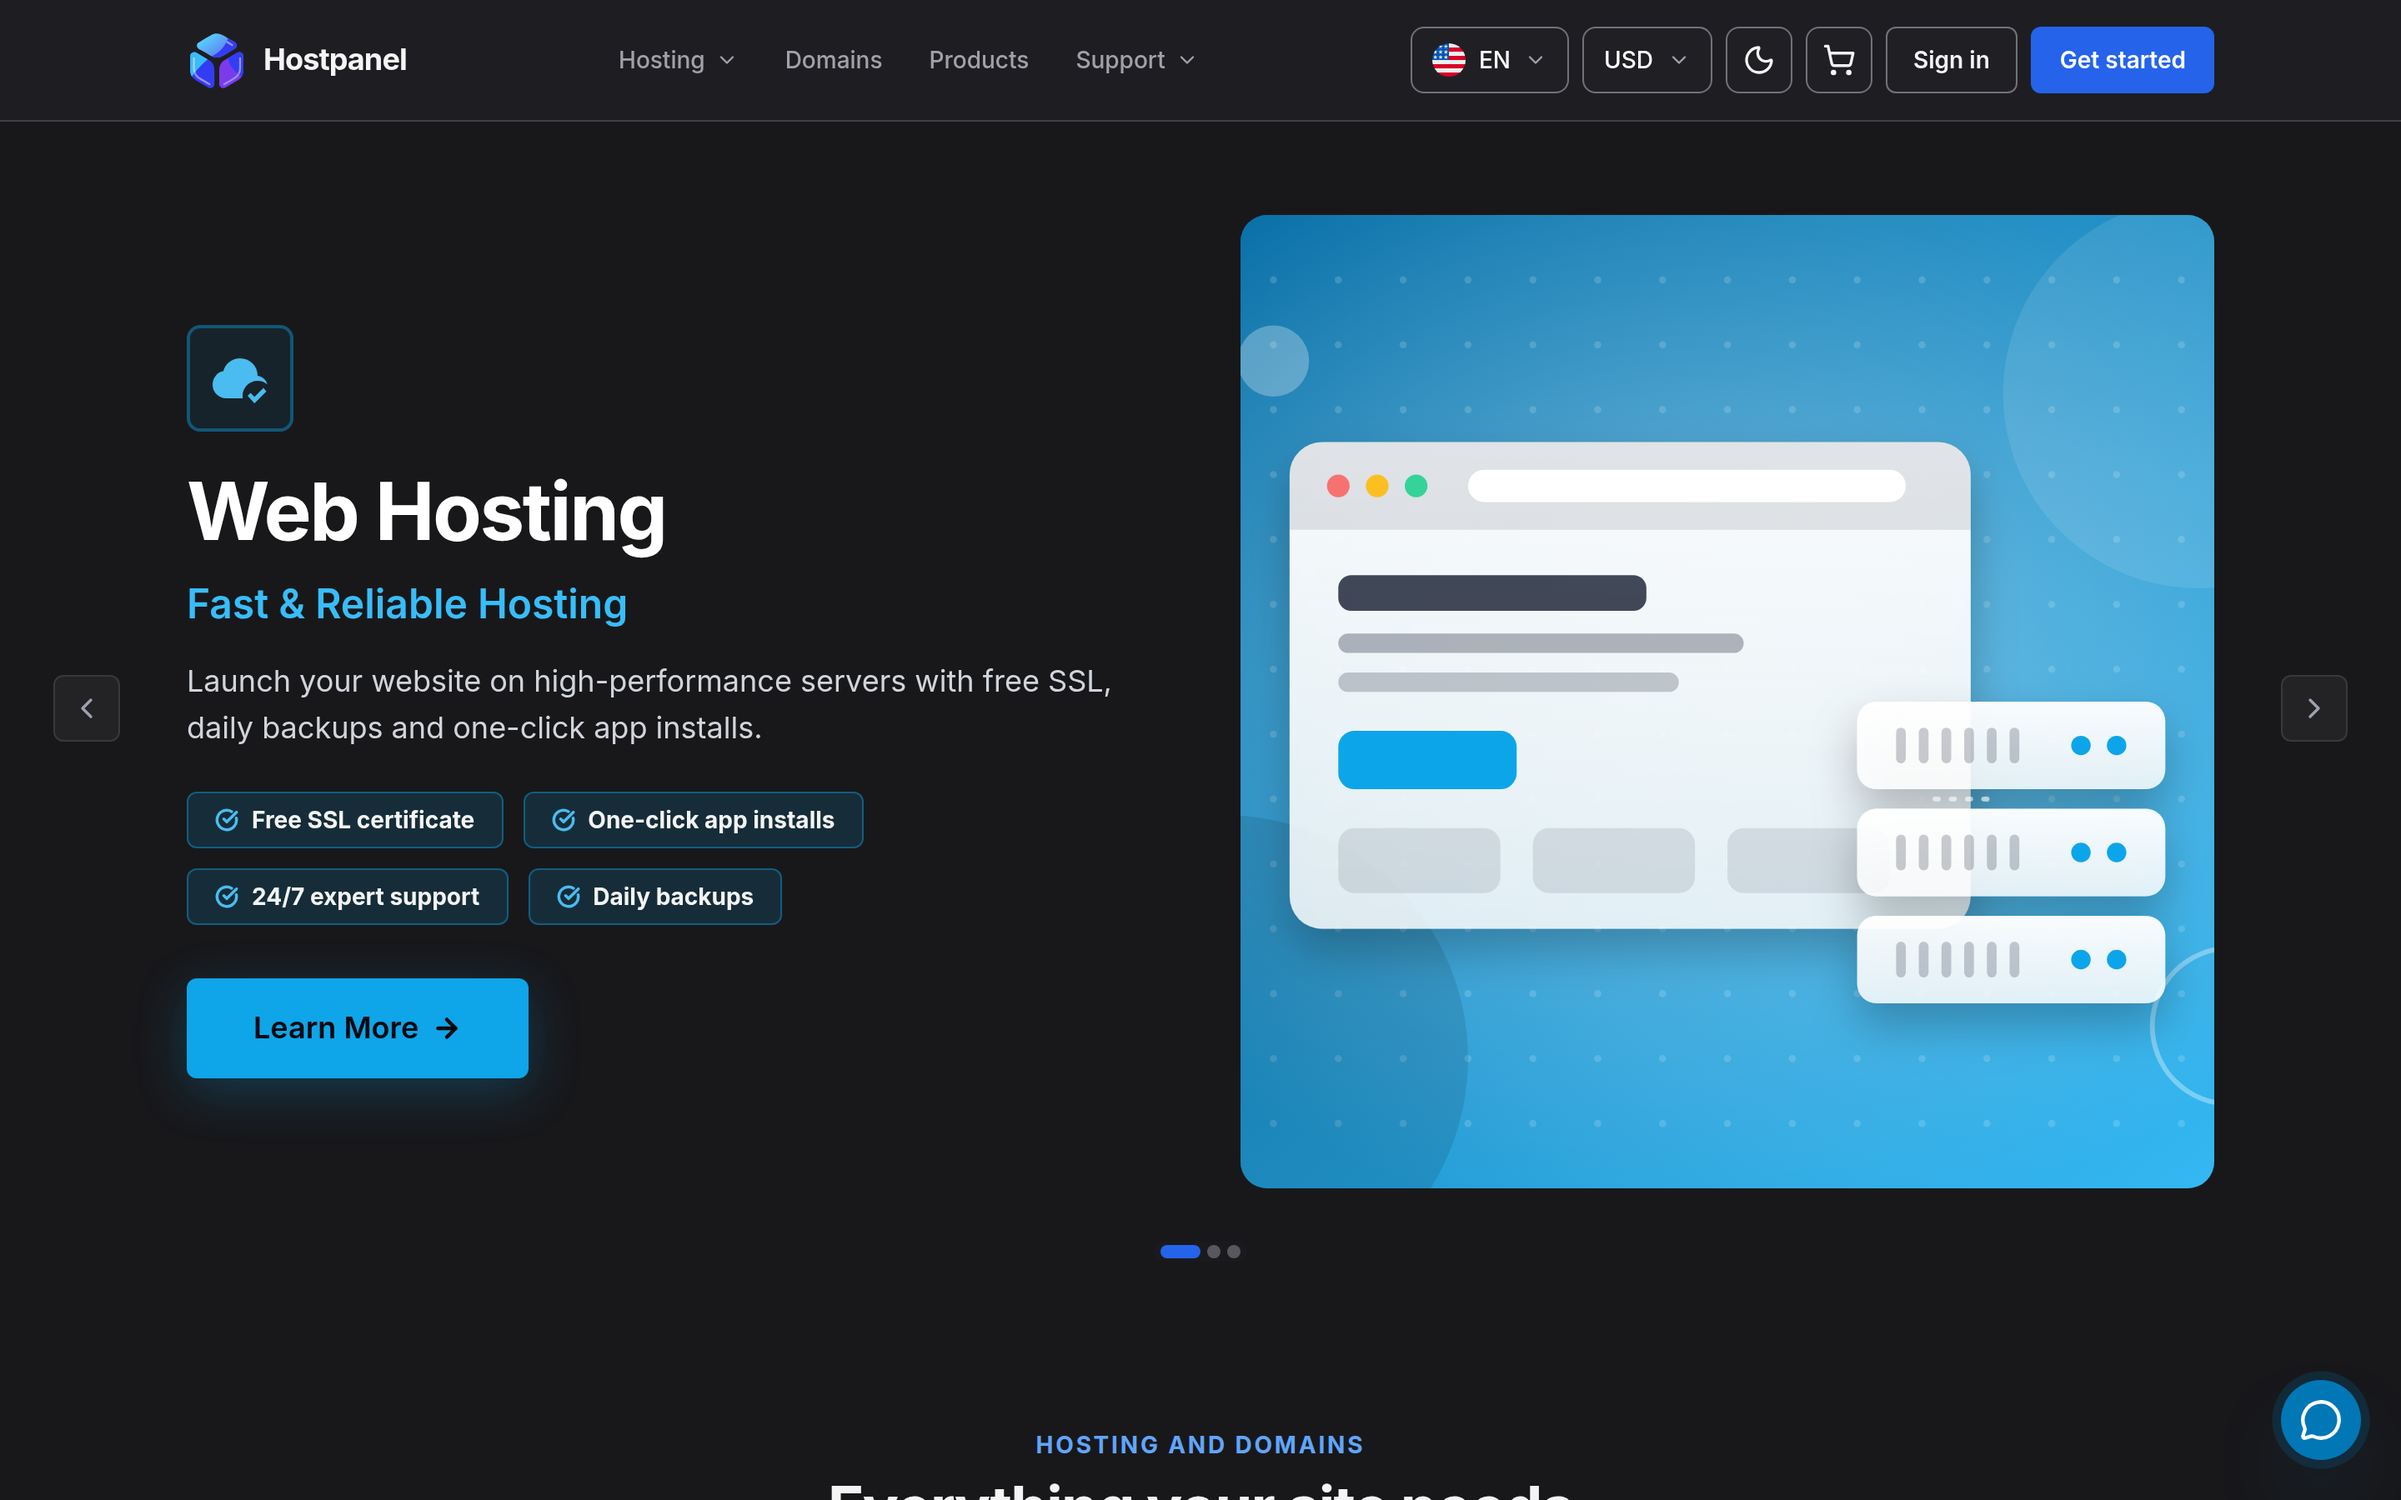
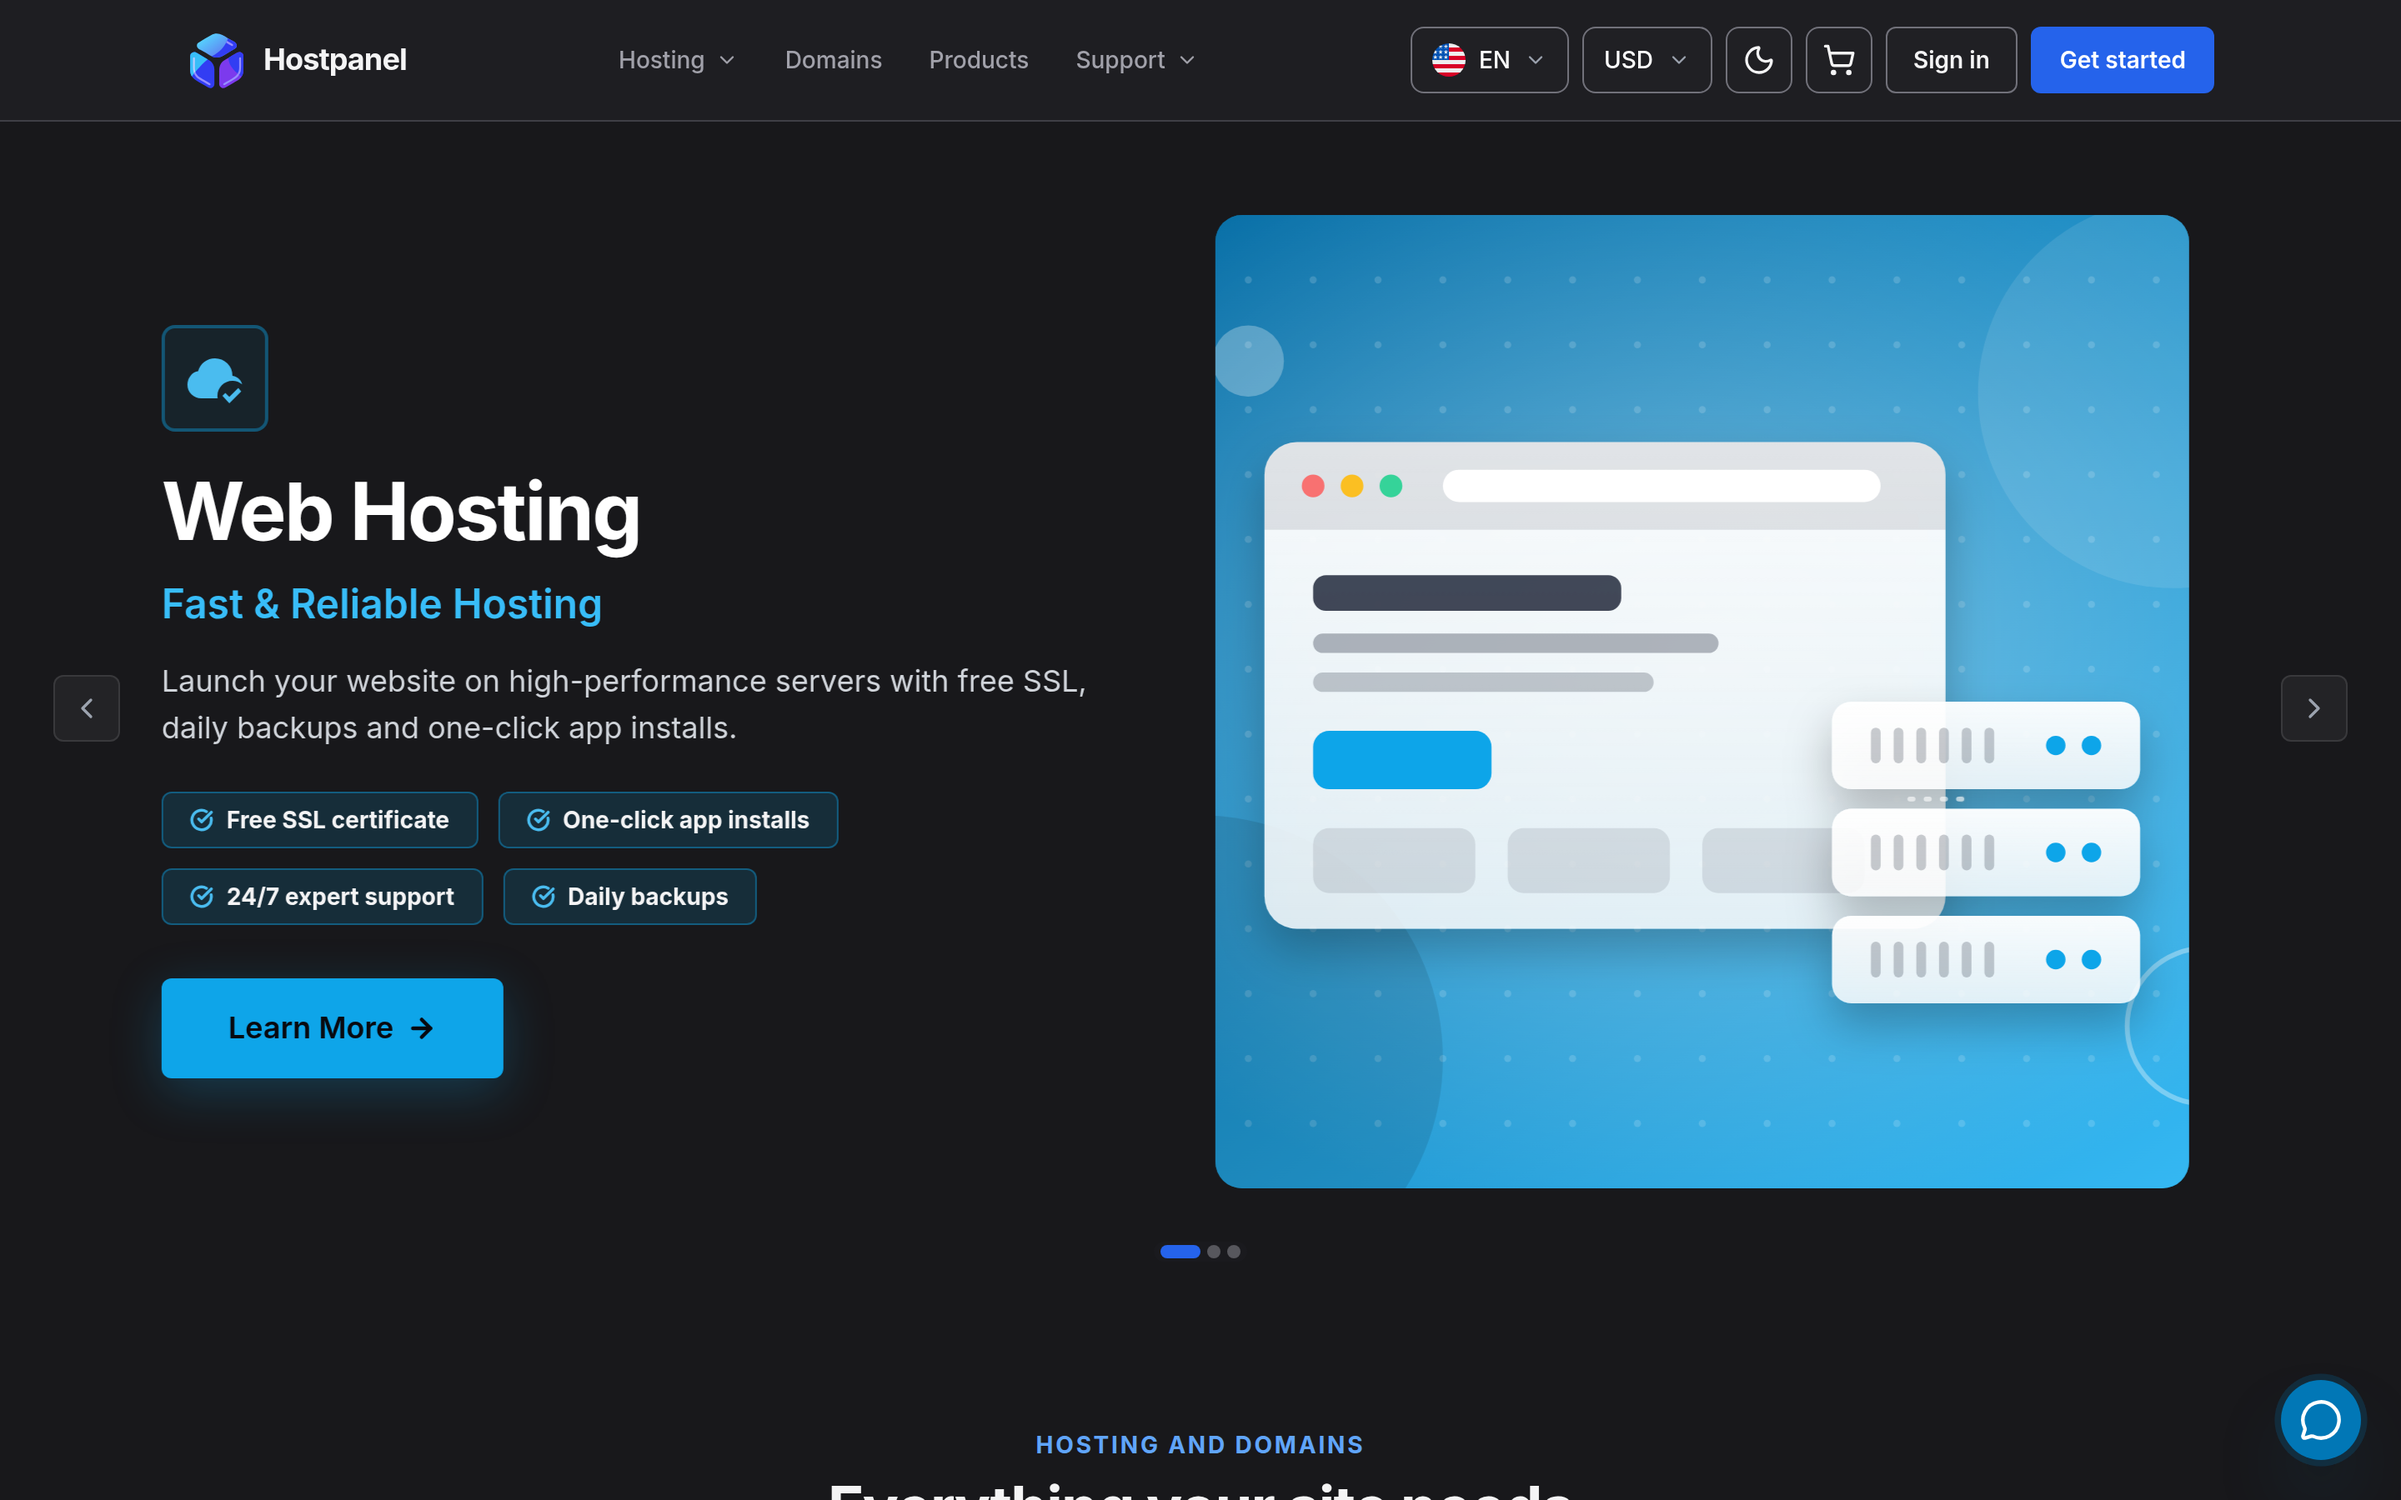
Use reserved domain names in the development seed
The seeded registered domains used real-looking names such as
partnersolutions.org and ownersite.am, which may belong to real
organisations and showed up in the README screenshots. They now use the
reserved names example.com, example.net, example.org and .test names.
The screenshots are retaken from a fresh database with the new seed.

diff --git a/backend/src/Innovayse.Hostpanel.Infrastructure/Persistence/DevDataSeeder.cs b/backend/src/Innovayse.Hostpanel.Infrastructure/Persistence/DevDataSeeder.cs
@@ -803,14 +803,14 @@ public sealed class DevDataSeeder
 
         (string Name, decimal Price, int ExpiresInDays, bool AutoRenew, bool WhoisPrivacy, string Registrar)[] domainDefs =
         [
-            ("example.test",        12.99m, 365,  true,  true,  "Namecheap"),
-            ("ownerbusiness.com",    12.99m, 180,  true,  false, "Namecheap"),
-            ("customershop.net",     11.99m, 90,   true,  true,  "Name.am"),
-            ("developerlab.io",      39.99m, 270,  false, false, "Namecheap"),
-            ("managerhub.com",       12.99m, 400,  true,  true,  "Namecheap"),
-            ("partnersolutions.org", 10.99m,  10,  true,  false, "Name.am"),
-            ("resellerpro.com",      12.99m, 500,  true,  true,  "Namecheap"),
-            ("ownersite.am",          8.99m, 60,   false, false, "Name.am"),
+            ("example.test",       12.99m, 365,  true,  true,  "Namecheap"),
+            ("example.com",        12.99m, 180,  true,  false, "Namecheap"),
+            ("example.net",        11.99m, 90,   true,  true,  "Name.am"),
+            ("developer-lab.test", 39.99m, 270,  false, false, "Namecheap"),
+            ("manager-hub.test",   12.99m, 400,  true,  true,  "Namecheap"),
+            ("example.org",        10.99m, 10,   true,  false, "Name.am"),
+            ("reseller-pro.test",  12.99m, 500,  true,  true,  "Namecheap"),
+            ("owner-site.test",     8.99m, 60,   false, false, "Name.am"),
         ];
 
         for (var i = 0; i < domainDefs.Length; i++)
